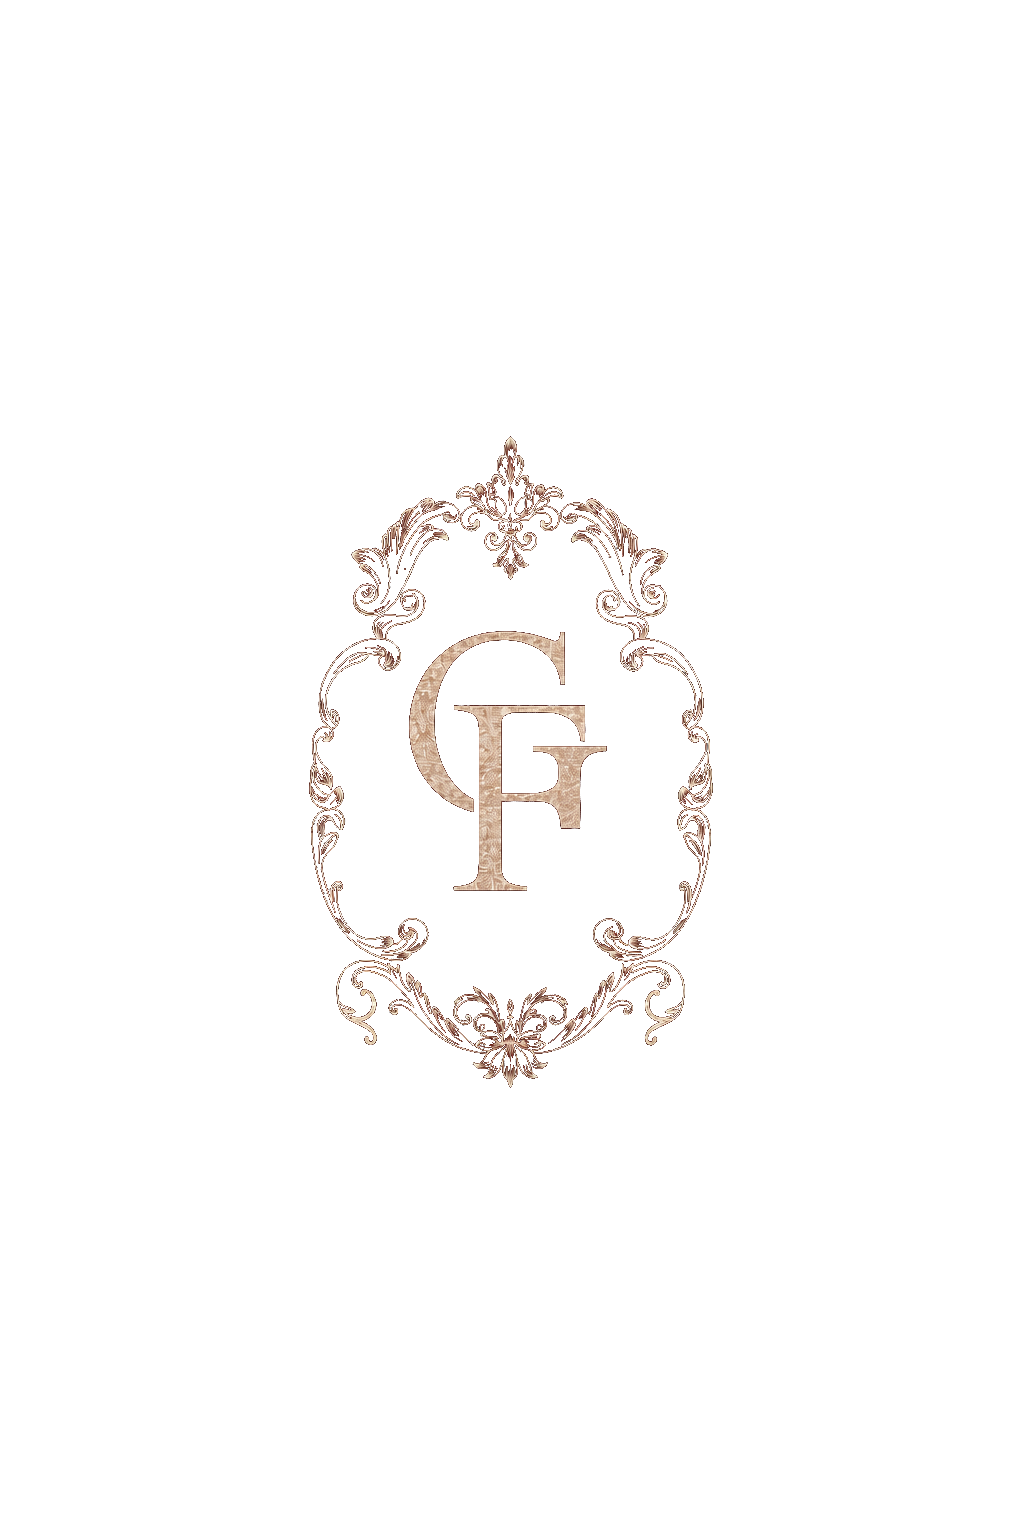
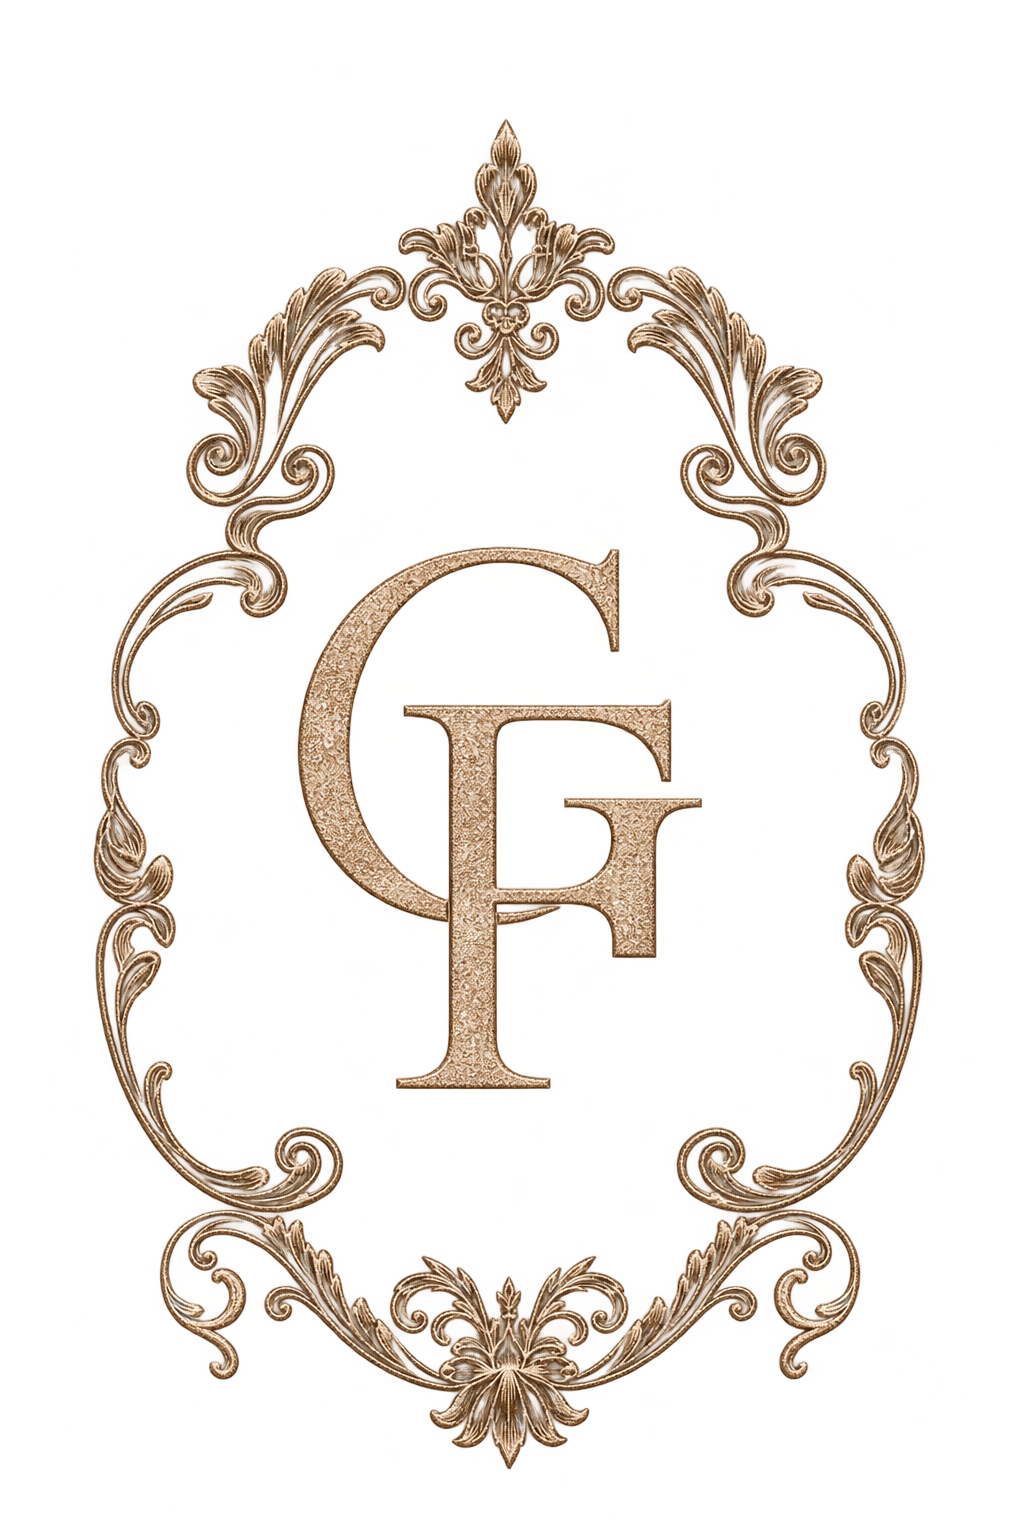
Use monogram 2.png (already transparent) as canonical monogram, sized up everywhere
- monogram.png now copied from the transparent 'monogram 2.png' the couple
  provided directly in the repo — no background removal needed, already clean
- Envelope seal: h-20/sm:h-24 (was h-16/sm:h-20)
- Card: h-24/sm:h-28 (was h-20/sm:h-24)
- Hero: h-40/sm:h-48 (was h-32/sm:h-40)
- Footer: h-24 (was h-20)
- Regenerated favicon, apple-touch-icon, og-image from monogram 2.png

Changed region(s): [[0.0938, 0.0625, 0.9062, 0.9688]]

diff --git a/src/components/EnvelopeIntro.tsx b/src/components/EnvelopeIntro.tsx
@@ -281,7 +281,7 @@ export default function EnvelopeIntro({ invitation, onFinished }: Props) {
                 transition: 'opacity 1000ms ease 400ms'
               }}
             >
-              <FgMonogram halo="#ead9bf" className="h-20 w-auto sm:h-24" />
+              <FgMonogram halo="#ead9bf" className="h-24 w-auto sm:h-28" />
               <p className="mt-3 text-[9px] uppercase tracking-widest2 text-[#7a5c39] sm:text-[10px]">
                 The wedding of
               </p>
@@ -371,7 +371,7 @@ export default function EnvelopeIntro({ invitation, onFinished }: Props) {
           }}
         >
           <div className="envelope-breathe rounded-full" style={{ padding: 10, background: 'radial-gradient(circle, rgba(201,168,119,0.12) 0%, transparent 70%)' }}>
-            <FgMonogram className="h-16 w-auto sm:h-20" />
+            <FgMonogram className="h-20 w-auto sm:h-24" />
           </div>
         </div>
       </div>

diff --git a/src/components/Hero.tsx b/src/components/Hero.tsx
@@ -7,7 +7,7 @@ export default function Hero({ invitation }: { invitation: Invitation }) {
     <section id="invitation" className="flex min-h-[92vh] flex-col items-center justify-center px-6 text-center">
       {/* Watermark: the FG mark echoes the envelope card behind the hero. */}
       <FgMonogram
-        className="animate-fade-up h-32 w-auto sm:h-40"
+        className="animate-fade-up h-40 w-auto sm:h-48"
       />
       <p className="animate-fade-up mt-4 text-xs uppercase tracking-widest2 text-clay" style={{ animationDelay: '80ms' }}>
         {invitation.invitation_title || 'Together with our families'}

diff --git a/src/components/Footer.tsx b/src/components/Footer.tsx
@@ -51,7 +51,7 @@ export default function Footer({ invitation }: { invitation: Invitation }) {
 
   return (
     <footer id="footer" className="border-t border-line/70 px-6 py-14 text-center">
-      <FgMonogram className="mx-auto h-20 w-auto" />
+      <FgMonogram className="mx-auto h-24 w-auto" />
       <p className="mt-4 font-display italic text-lg text-ink/70">
         {invitation.bride_name} &amp; {invitation.groom_name}
       </p>
